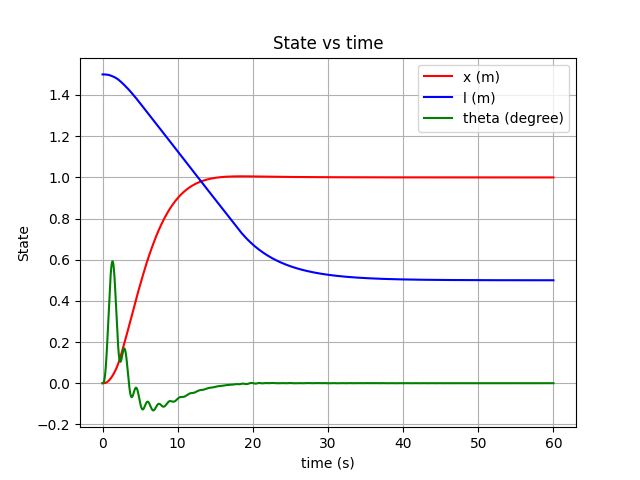
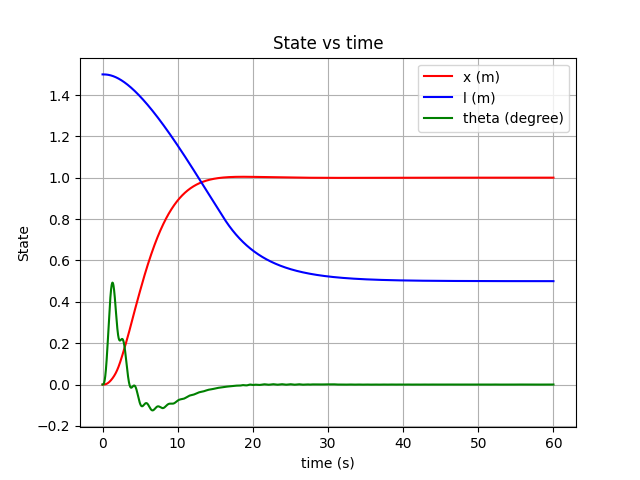
Final fixation

diff --git a/Simulasi/simulasi_motor_gantry.py b/Simulasi/simulasi_motor_gantry.py
@@ -25,17 +25,17 @@ g = 9.81
 
 # Motor 1
 L1 = 0.0120
-R1 = 15.0
+R1 = 10.0
 J1 = 0.00200
 b1 = 0.004
 rp1 = 0.04
-Ke1 = 0.2
-Kt1 = 0.2
+Ke1 = 0.05
+Kt1 = 0.05
 K1 = 1 / (Kt1 * rp1)
 
 # Motor 2
 L2 = 0.0015
-R2 = 0.5
+R2 = 0.05
 J2 = 0.00025
 b2 = 0.0001
 rp2 = 0.01
@@ -62,7 +62,7 @@ beta2 = 5.0
 matrix_beta = np.matrix([[beta1, 0.0], [0.0, beta2]])
 
 # K must be > 0
-k1 = 0.003
+k1 = 0.01
 k2 = 0.00013
 k = [[k1], [k2]]
 # k = 0.0005
